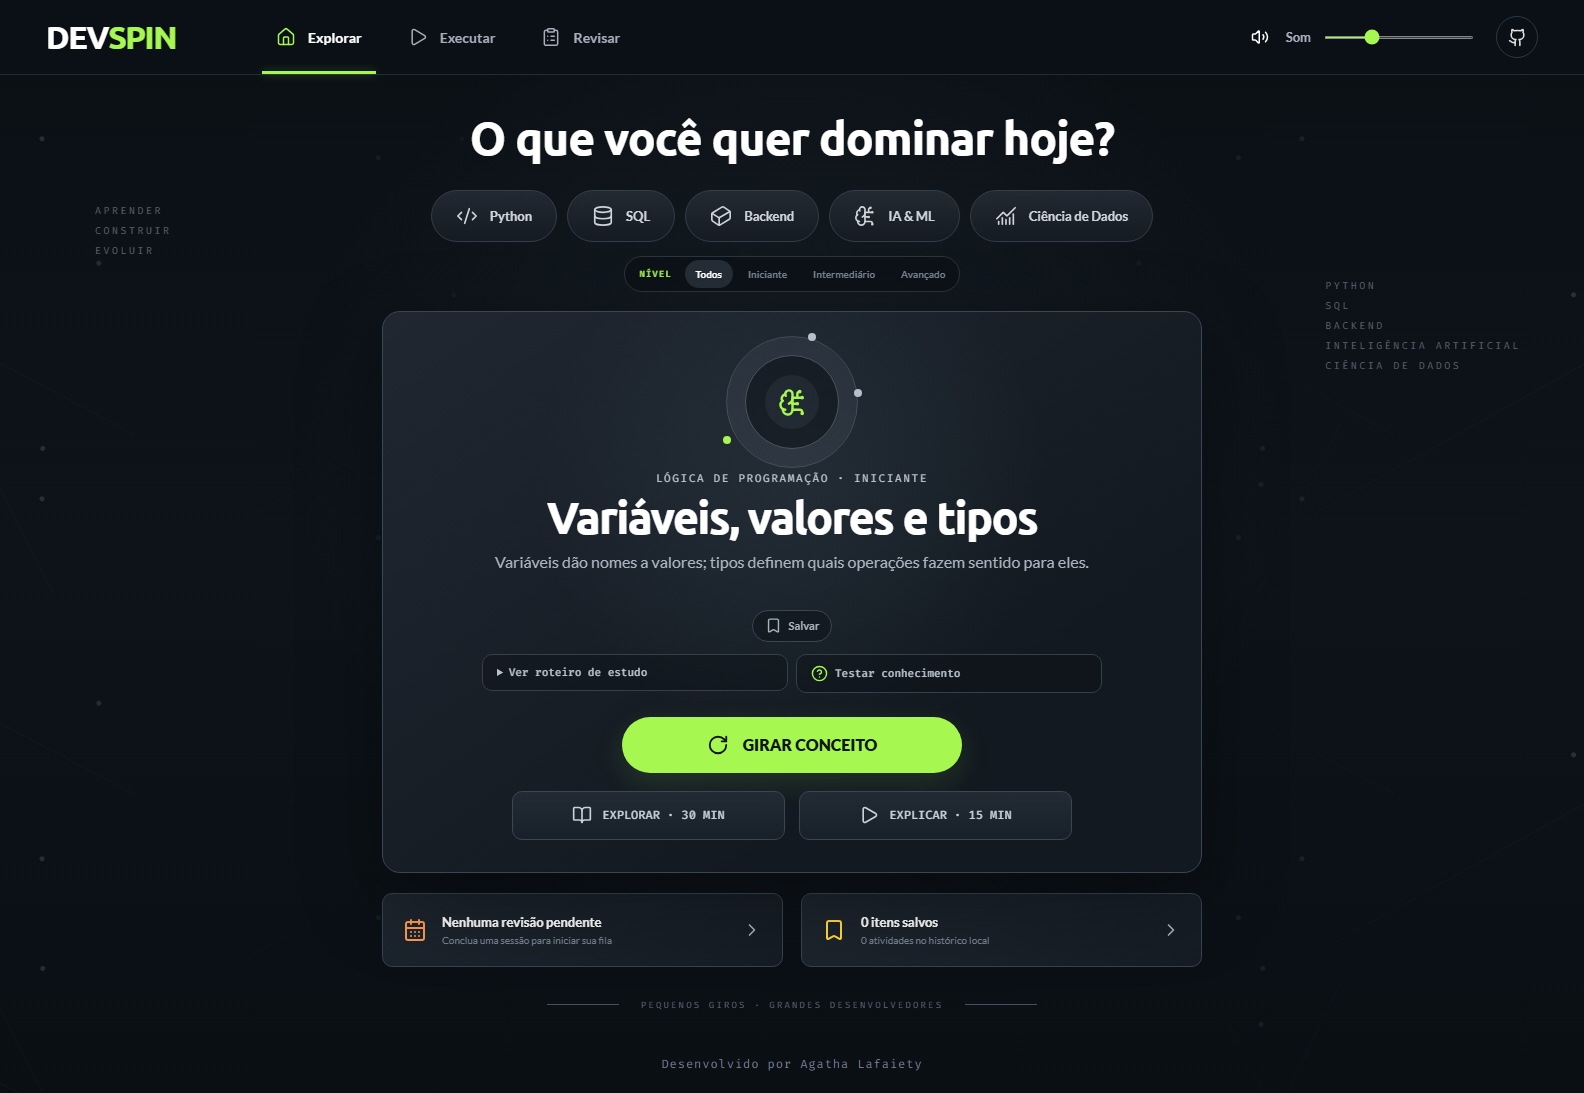
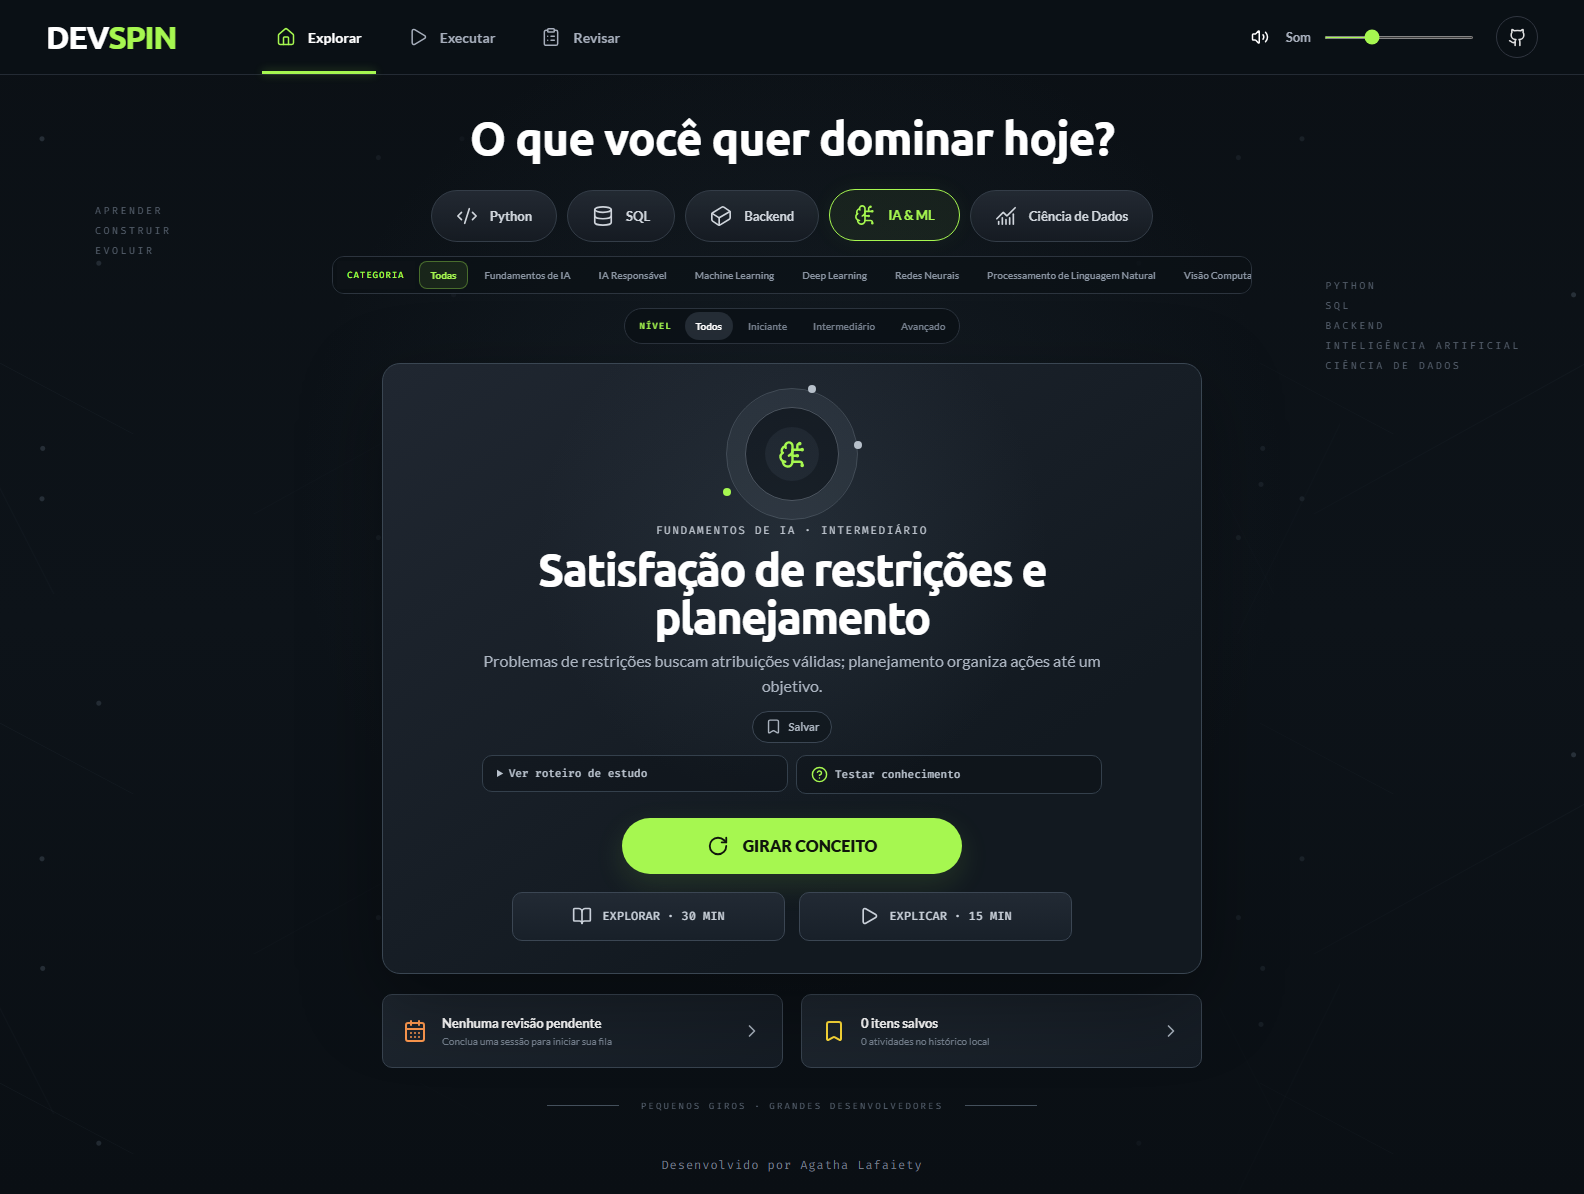
release: finalize version 1.0.0

diff --git a/apps/web/src/modules/learning/presentation/TrackSelector.tsx b/apps/web/src/modules/learning/presentation/TrackSelector.tsx
@@ -1,6 +1,6 @@
 import { BrainCircuit, ChartNoAxesCombined, Code2, Cuboid, Database } from 'lucide-react';
 import type { Category, Level } from '../domain/types';
-import { levelLabels } from '../domain/catalog';
+import { categoryLabels, levelLabels } from '../domain/catalog';
 import { levels } from '../domain/types';
 
 interface TrackSelectorProps {
@@ -72,18 +72,26 @@ export function TrackSelector({
   onSelectCategories,
   onLevelChange,
 }: TrackSelectorProps) {
+  const activeTrack = tracks.find(({ categories }) => {
+    if (sameCategories(selectedCategories, categories)) return true;
+    return selectedCategories.length === 1 && categories.includes(selectedCategories[0]!);
+  });
+
   return (
-    <section className="track-selector" aria-label="Trilha e nível de aprendizagem">
+    <section className="track-selector" aria-label="Trilha, categoria e nível de aprendizagem">
       <div className="track-list">
         {tracks.map(({ label, icon: Icon, categories }) => {
-          const selected = sameCategories(selectedCategories, categories);
+          const wholeTrackSelected = sameCategories(selectedCategories, categories);
+          const selected =
+            wholeTrackSelected ||
+            (selectedCategories.length === 1 && categories.includes(selectedCategories[0]!));
           return (
             <button
               type="button"
               className={`track-pill ${selected ? 'selected' : ''}`}
               aria-pressed={selected}
               key={label}
-              onClick={() => onSelectCategories(selected ? [] : categories)}
+              onClick={() => onSelectCategories(wholeTrackSelected ? [] : categories)}
             >
               <Icon size={22} strokeWidth={1.8} aria-hidden="true" />
               {label}
@@ -91,6 +99,34 @@ export function TrackSelector({
           );
         })}
       </div>
+
+      {activeTrack && (
+        <div className="category-filter" role="group" aria-label="Categorias da trilha selecionada">
+          <span>Categoria</span>
+          <button
+            type="button"
+            className={sameCategories(selectedCategories, activeTrack.categories) ? 'active' : ''}
+            aria-pressed={sameCategories(selectedCategories, activeTrack.categories)}
+            onClick={() => onSelectCategories(activeTrack.categories)}
+          >
+            Todas
+          </button>
+          {activeTrack.categories.map((category) => {
+            const selected = selectedCategories.length === 1 && selectedCategories[0] === category;
+            return (
+              <button
+                type="button"
+                className={selected ? 'active' : ''}
+                aria-pressed={selected}
+                key={category}
+                onClick={() => onSelectCategories([category])}
+              >
+                {categoryLabels[category]}
+              </button>
+            );
+          })}
+        </div>
+      )}
 
       <div className="compact-levels">
         <span>Nível</span>

diff --git a/apps/web/src/shared/styles/global.css b/apps/web/src/shared/styles/global.css
@@ -1840,6 +1840,69 @@ button:disabled {
   color: var(--color-primary);
   box-shadow: 0 0 24px rgb(166 247 80 / 0.05);
 }
+.category-filter {
+  width: min(100%, 920px);
+  min-height: 38px;
+  padding: 4px;
+  display: flex;
+  align-items: center;
+  justify-content: flex-start;
+  gap: 4px;
+  overflow-x: auto;
+  border: 1px solid #2c343e;
+  border-radius: 12px;
+  background: rgb(11 16 21 / 0.66);
+  scrollbar-width: thin;
+  scrollbar-color: #3b4652 transparent;
+  animation: category-filter-reveal 180ms ease-out both;
+}
+.category-filter > span {
+  position: sticky;
+  left: 0;
+  z-index: 1;
+  align-self: stretch;
+  padding: 0 10px;
+  display: inline-flex;
+  align-items: center;
+  background: #0d1217;
+  color: var(--color-primary);
+  font: 500 9px var(--font-code);
+  letter-spacing: 0.11em;
+  text-transform: uppercase;
+}
+.category-filter button {
+  min-height: 28px;
+  padding: 0 11px;
+  flex: 0 0 auto;
+  border: 1px solid transparent;
+  border-radius: 8px;
+  background: transparent;
+  color: #8993a0;
+  font-size: 10px;
+  font-weight: 700;
+  white-space: nowrap;
+  cursor: pointer;
+  transition: 160ms ease;
+}
+.category-filter button:hover {
+  border-color: #3b4652;
+  color: var(--color-text-strong);
+}
+.category-filter button.active {
+  border-color: rgb(166 247 80 / 0.35);
+  background: rgb(166 247 80 / 0.09);
+  color: var(--color-primary);
+}
+@keyframes category-filter-reveal {
+  from {
+    opacity: 0;
+    transform: translateY(-4px);
+  }
+  to {
+    opacity: 1;
+    transform: translateY(0);
+  }
+}
 .compact-levels {
   display: flex;
   align-items: center;
@@ -2120,6 +2183,9 @@ button:disabled {
   .track-list::-webkit-scrollbar {
     display: none;
   }
+  .category-filter {
+    width: 100%;
+  }
   .mvp-main .spin-stage {
     width: min(100%, 820px);
   }
@@ -2166,6 +2232,9 @@ button:disabled {
     justify-content: flex-start;
     overflow-x: auto;
     scrollbar-width: none;
+  }
+  .category-filter > span {
+    padding: 0 8px;
   }
   .compact-levels > span {
     display: none;

diff --git a/tests/e2e/devspin.spec.ts b/tests/e2e/devspin.spec.ts
@@ -33,6 +33,23 @@ test('explora um conceito e responde ao mini-quiz', async ({ page }) => {
   await expect(page.getByRole('button', { name: 'Tentar novamente' })).toBeVisible();
 });
 
+test('filtra uma categoria específica dentro da trilha', async ({ page }) => {
+  await page.getByRole('button', { name: 'IA & ML' }).click();
+  await expect(page.getByRole('group', { name: 'Categorias da trilha selecionada' })).toBeVisible();
+
+  await page.getByRole('button', { name: 'Visão Computacional' }).click();
+
+  await expect(page.getByRole('button', { name: 'IA & ML' })).toHaveAttribute(
+    'aria-pressed',
+    'true',
+  );
+  await expect(page.getByRole('button', { name: 'Visão Computacional' })).toHaveAttribute(
+    'aria-pressed',
+    'true',
+  );
+  await expect(page.getByText(/Visão Computacional ·/)).toBeVisible();
+});
+
 test('aguarda o comando para iniciar cada etapa do temporizador', async ({ page }) => {
   await page.getByRole('button', { name: /Explorar · 30 min/i }).click();
 

diff --git a/apps/web/src/app/App.test.tsx b/apps/web/src/app/App.test.tsx
@@ -133,6 +133,25 @@ describe('experiência inicial', () => {
     );
   });
 
+  it('permite escolher uma categoria específica dentro da trilha', async () => {
+    const user = userEvent.setup();
+    render(<App />);
+
+    await user.click(screen.getByRole('button', { name: 'IA & ML' }));
+    expect(
+      screen.getByRole('group', { name: 'Categorias da trilha selecionada' }),
+    ).toBeInTheDocument();
+
+    await user.click(screen.getByRole('button', { name: 'Visão Computacional' }));
+
+    expect(screen.getByRole('button', { name: 'IA & ML' })).toHaveAttribute('aria-pressed', 'true');
+    expect(screen.getByRole('button', { name: 'Visão Computacional' })).toHaveAttribute(
+      'aria-pressed',
+      'true',
+    );
+    expect(await screen.findByText(/Visão Computacional ·/)).toBeInTheDocument();
+  });
+
   it('oferece um mini-quiz com correção explicada', async () => {
     const user = userEvent.setup();
     render(<App />);

diff --git a/apps/web/vite.config.ts b/apps/web/vite.config.ts
@@ -17,6 +17,26 @@ export default defineConfig(({ mode }) => {
     build: {
       outDir: '../../dist',
       emptyOutDir: true,
+      rolldownOptions: {
+        output: {
+          codeSplitting: {
+            groups: [
+              {
+                name: 'learning-content',
+                test: /content[\\/](?:concepts|challenges)[\\/]seed\.json$/,
+              },
+              {
+                name: 'ui-vendor',
+                test: /node_modules[\\/](?:react|react-dom|scheduler|lucide-react)[\\/]/,
+              },
+              {
+                name: 'validation-vendor',
+                test: /node_modules[\\/]zod[\\/]/,
+              },
+            ],
+          },
+        },
+      },
     },
     server: {
       host: '127.0.0.1',

diff --git a/docs/architecture/phase-1-increment-5.md b/docs/architecture/phase-1-increment-5.md
@@ -8,18 +8,20 @@ Este incremento consolida a primeira versão e transforma os dados locais em ret
 - alternativas dos quizzes apresentadas em ordem aleatória;
 - orientação em três passos na primeira visita;
 - painel com conceitos e desafios concluídos, revisões, quizzes e sequência de estudo;
-- progresso geral e detalhamento pelas 12 áreas do laboratório;
+- progresso geral e detalhamento pelas 25 categorias do laboratório;
 - registro local das tentativas de quiz;
 - migração automática do progresso da versão 1 para a versão 2;
 - importação compatível com backups da versão anterior;
 - validação adicional da integridade editorial dos 150 conteúdos;
 - remoção do componente de filtros antigo e dos estilos órfãos do Design System;
-- expansão da biblioteca para 100 conceitos e 50 desafios em 25 categorias equilibradas.
+- expansão da biblioteca para 100 conceitos e 50 desafios em 25 categorias equilibradas;
+- seleção direta das 25 categorias dentro das cinco trilhas principais;
+- divisão do bundle por interface, conteúdo e dependências para carregamento e cache mais eficientes.
 
 ## Verificações
 
-- 42 testes unitários e de integração;
-- 5 cenários ponta a ponta em desktop e celular, totalizando 10 verificações;
+- 43 testes unitários e de integração;
+- 6 cenários ponta a ponta em desktop e celular, totalizando 12 verificações;
 - build de produção e lint sem erros;
 - auditoria automática de acessibilidade sem violações graves ou críticas;
 - auditoria de dependências sem vulnerabilidades conhecidas.

diff --git a/docs/project-completion-checklist.md b/docs/project-completion-checklist.md
@@ -18,10 +18,13 @@ Este documento reúne os critérios que precisam estar concluídos antes de cons
 
 - Aplicação web React, TypeScript e Vite em `apps/web`.
 - Biblioteca local em `content`, com 100 conceitos e 50 desafios em 25 categorias.
+- Conteúdo revisado sem títulos duplicados, rascunhos ou referências ausentes; 12 endereços de referência verificados.
 - Documentação técnica e decisões arquiteturais em `docs`.
-- 42 testes unitários e de integração aprovados.
-- 5 cenários ponta a ponta executados em desktop e celular, totalizando 10 verificações.
+- 43 testes unitários e de integração aprovados.
+- 6 cenários ponta a ponta executados em desktop e celular, totalizando 12 verificações.
 - `lint` e build de produção aprovados.
+- Bundle dividido em partes cacheáveis, com o maior arquivo JavaScript abaixo de 230 KB.
+- Auditoria de dependências sem vulnerabilidades conhecidas.
 - `.gitignore` exclui `.env` e variantes, preservando somente `.env.example`.
 - Repositório remoto configurado em `https://github.com/agathalafaiety/devspin-learning-lab.git`.
 - Verificações de qualidade disponíveis localmente pelo comando `npm run check`.

diff --git a/README.md b/README.md
@@ -2,14 +2,14 @@
 
 Laboratório de aprendizagem ativa para desenvolvimento de software, inteligência artificial, machine learning e ciência de dados.
 
-O [DevSpin](https://agathalafaiety.github.io/devspin-learning-lab/) transforma o estudo em ciclos curtos de prática. Escolha uma área e um nível, sorteie um conceito ou desafio, teste seu conhecimento e organize revisões de acordo com sua própria avaliação.
+O [DevSpin](https://agathalafaiety.github.io/devspin-learning-lab/) transforma o estudo em ciclos curtos de prática. Escolha uma trilha, categoria e nível, sorteie um conceito ou desafio, teste seu conhecimento e organize revisões de acordo com sua própria avaliação.
 
 ![Tela inicial do DevSpin](docs/images/devspin-desktop.png)
 
 ## Funcionalidades
 
 - 100 conceitos e 50 desafios em 25 categorias
-- Filtros por área e nível de dificuldade
+- Filtros por trilha, categoria e nível de dificuldade
 - Mini-quizzes com respostas explicadas
 - Sorteios em ciclos sem repetição
 - Sessões de estudo com temporizador
